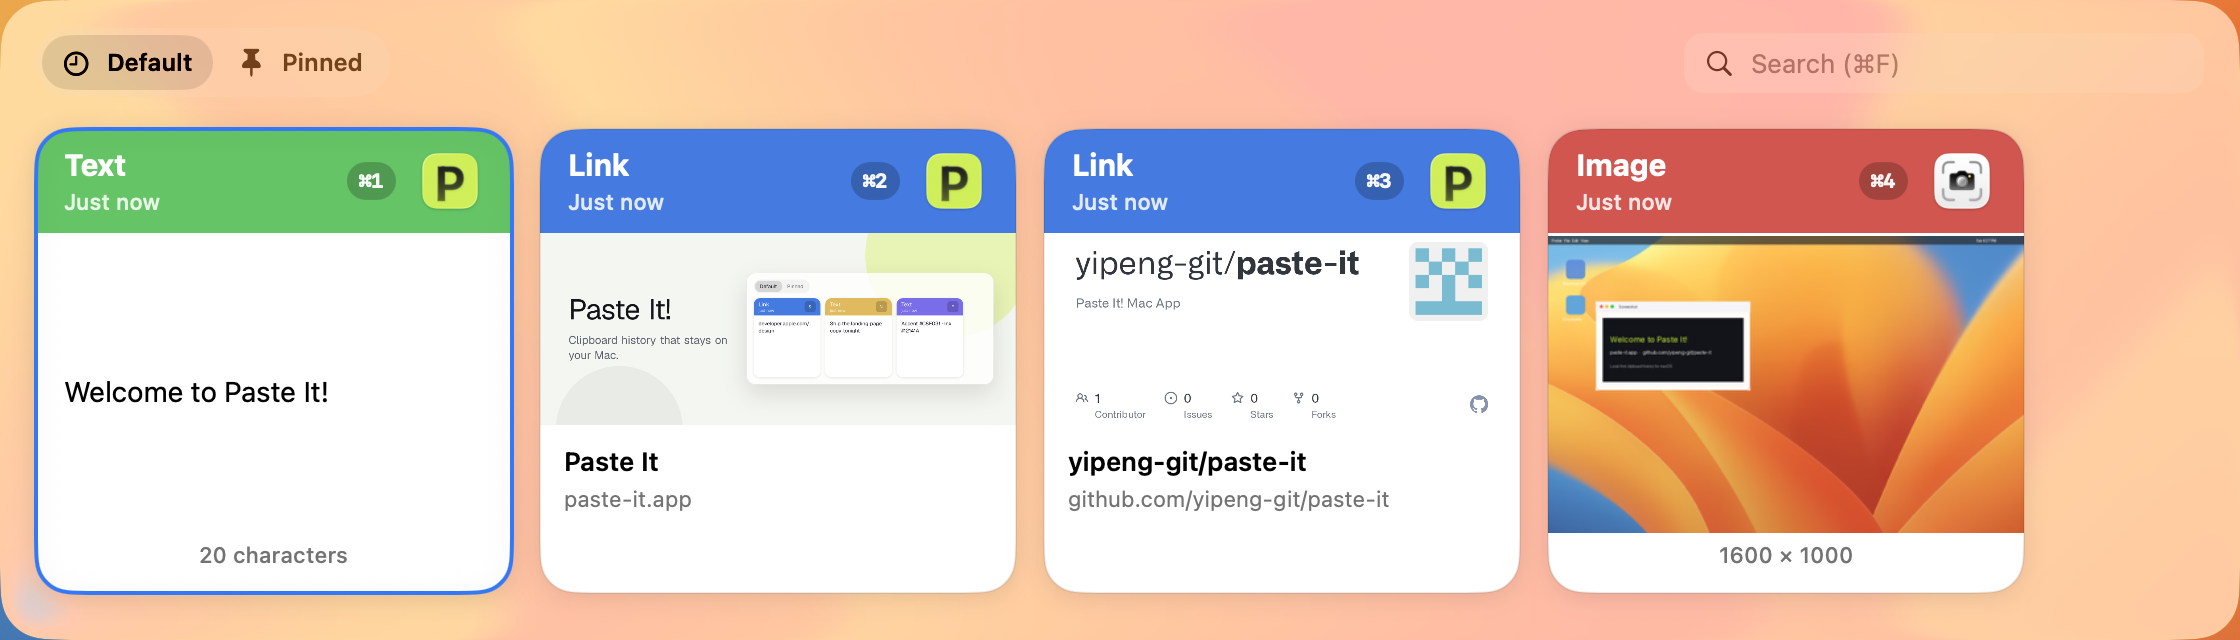
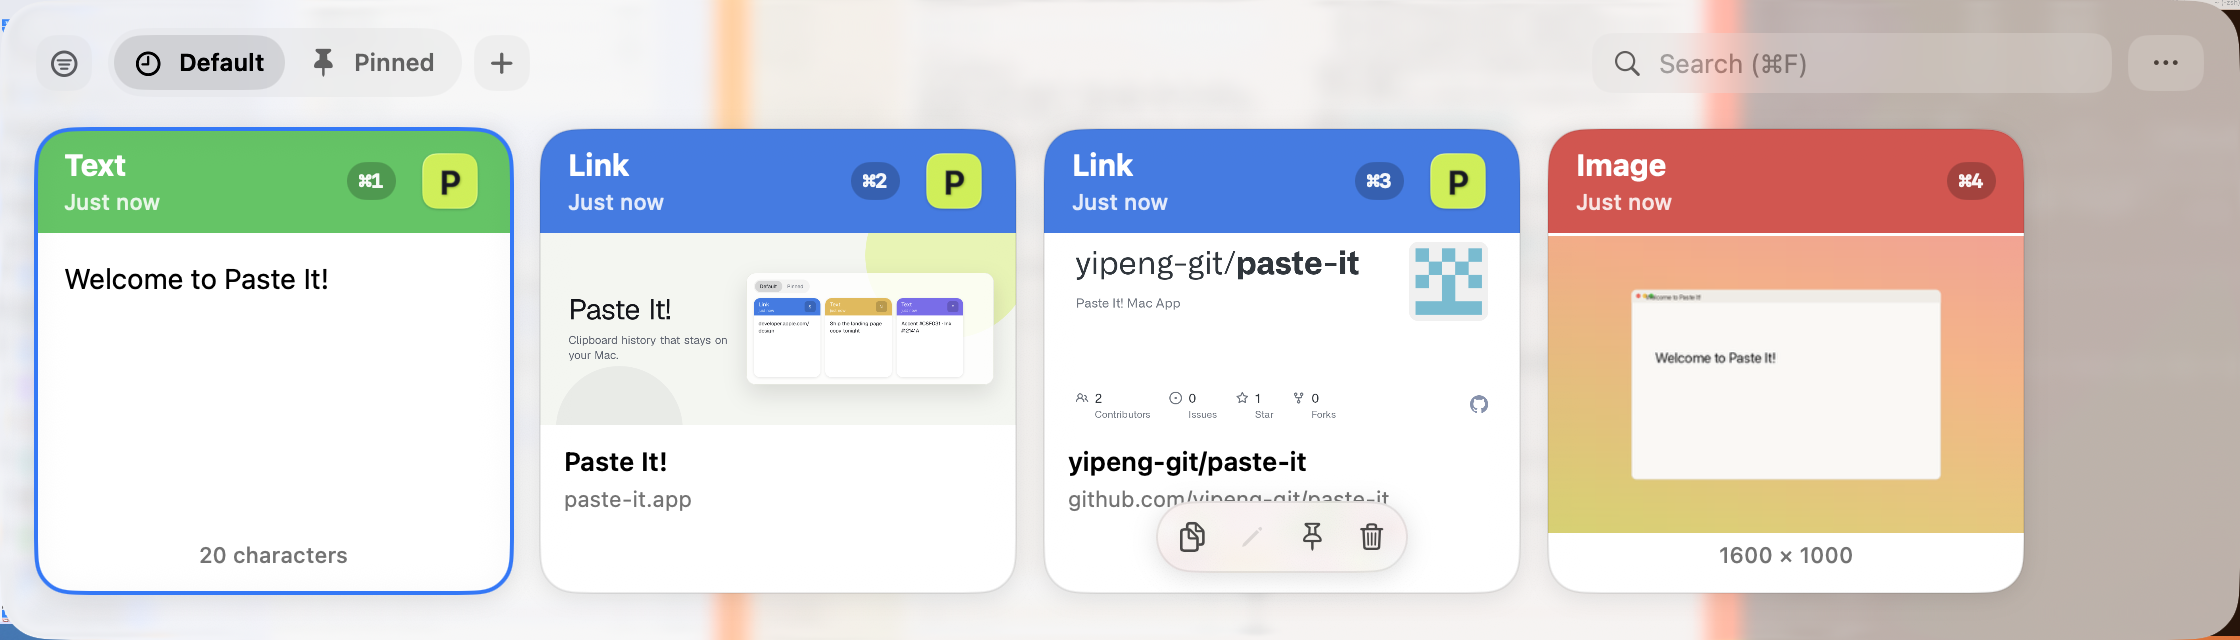
Use the real TimelineView for MCP screenshot renders.
Drop the parallel ephemeral toolbar so agent screenshots stay in sync with the product UI, and refresh the README panel shots.

diff --git a/Sources/PasteIt/AgentAPI/EphemeralTimelineSession.swift b/Sources/PasteIt/AgentAPI/EphemeralTimelineSession.swift
@@ -1,17 +1,20 @@
 import AppKit
 import Foundation
 import SwiftUI
+import PasteItCore
 
 @MainActor
 final class EphemeralTimelineSession {
     private let historyStore: HistoryStore
+    private let appState: AppState
     private let tempRoot: URL
     private var panel: NSPanel?
     private let panelHeight: CGFloat = 320
     private let bottomInset: CGFloat = 12
 
-    private init(historyStore: HistoryStore, tempRoot: URL) {
+    private init(historyStore: HistoryStore, appState: AppState, tempRoot: URL) {
         self.historyStore = historyStore
+        self.appState = appState
         self.tempRoot = tempRoot
     }
 
@@ -19,7 +22,12 @@ final class EphemeralTimelineSession {
         let tempRoot = FileManager.default.temporaryDirectory
             .appendingPathComponent("PasteItEphemeral-\(UUID().uuidString)", isDirectory: true)
         let store = HistoryStore(ephemeralBlobRoot: tempRoot, settings: settings)
-        return EphemeralTimelineSession(historyStore: store, tempRoot: tempRoot)
+        let appState = AppState(
+            settings: settings,
+            historyStore: store,
+            searchService: SearchService()
+        )
+        return EphemeralTimelineSession(historyStore: store, appState: appState, tempRoot: tempRoot)
     }
 
     func seed(cards: [AgentRenderCard], preloadedImages: [Int: Data] = [:]) throws {
@@ -34,12 +42,16 @@ final class EphemeralTimelineSession {
         }
     }
 
-    func show(query: String, selectedType: ClipType?, selectedIndex: Int) {
-        let view = EphemeralTimelineView(
-            historyStore: historyStore,
-            query: query,
-            selectedType: selectedType,
-            selectedIndex: selectedIndex
+    /// Shows the real product `TimelineView` over an ephemeral store (does not touch main history).
+    func show(query: String, selectedType: ClipType?) {
+        if let selectedType,
+           let filter = FilterCategory.from(typeToken: selectedType.rawValue) {
+            appState.setFilter(filter)
+        }
+
+        let view = TimelineView(
+            appState: appState,
+            pasteController: AppRuntime.shared.pasteController
         )
         let hosting = NSHostingController(rootView: view)
         let panel = NSPanel(
@@ -69,6 +81,22 @@ final class EphemeralTimelineSession {
         panel.setFrame(frame, display: true)
         panel.orderFrontRegardless()
         self.panel = panel
+
+        // Apply query after the view is mounted so `searchFocusRequest` activates the field.
+        if !query.isEmpty {
+            appState.query = query
+            appState.searchFocusRequest += 1
+        }
+    }
+
+    /// Call after settle so search debounce has rebuilt `visibleClips`.
+    func finalizeUI(selectedIndex: Int) {
+        let clips = appState.visibleClips
+        if clips.indices.contains(selectedIndex) {
+            appState.selectOnly(clips[selectedIndex].id)
+        } else {
+            appState.selectFirst()
+        }
     }
 
     func awaitLinkPreviewsIfNeeded() async {

diff --git a/Sources/PasteIt/AgentAPI/RenderScreenshotHandler.swift b/Sources/PasteIt/AgentAPI/RenderScreenshotHandler.swift
@@ -75,7 +75,7 @@ enum RenderScreenshotHandler {
             await session.awaitLinkPreviewsIfNeeded()
         }
 
-        session.show(query: query, selectedType: selectedType, selectedIndex: selectedIndex)
+        session.show(query: query, selectedType: selectedType)
 
         // Yield + sleep releases MainActor so health / menu stay responsive during wait.
         await Task.yield()
@@ -90,6 +90,10 @@ enum RenderScreenshotHandler {
             settleNs = 350_000_000
         }
         try await Task.sleep(nanoseconds: settleNs)
+
+        // After search debounce / first paint, lock selection then capture.
+        session.finalizeUI(selectedIndex: selectedIndex)
+        await Task.yield()
 
         guard let frame = session.panelFrame else {
             throw HandlerError.captureFailed("Ephemeral panel has no frame")

diff --git a/docs/mcp.md b/docs/mcp.md
@@ -36,11 +36,11 @@ Requests must be JSON-RPC over HTTP with:
 | `paste_it_list_clips` | `limit` / `offset` / `type` / `sourceApp` |
 | `paste_it_get_clip` | `id` + optional `includeBlobs` |
 | `paste_it_search` | `q` / `limit` / … (same query language as the app) |
-| `paste_it_render_screenshot` | Ephemeral timeline → screen-region PNG path |
+| `paste_it_render_screenshot` | Ephemeral cards + real `TimelineView` → screen-region PNG path |
 
 ### `paste_it_render_screenshot`
 
-Builds a **throwaway** timeline (does not write main history), shows a temporary glass panel, captures a **screen-region** PNG (so Liquid Glass composites correctly), then destroys the session.
+Builds a **throwaway** history (does not write main history), shows a temporary glass panel using the **same `TimelineView` toolbar and cards as the product**, captures a **screen-region** PNG (so Liquid Glass composites correctly), then destroys the session.
 
 Default output directory:
 
